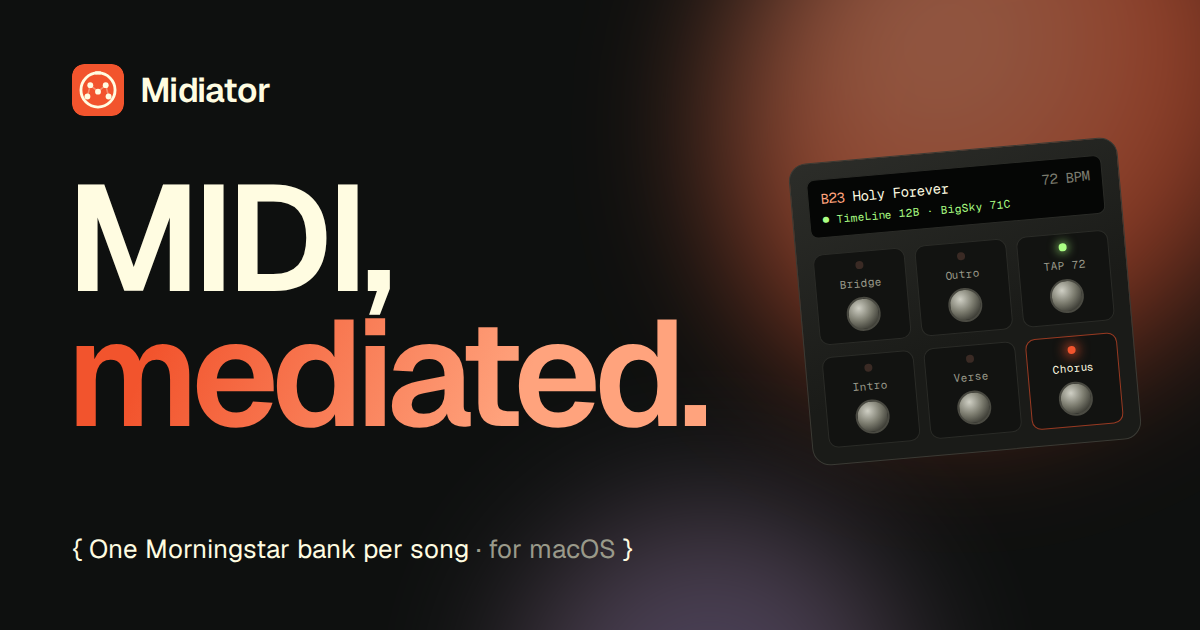
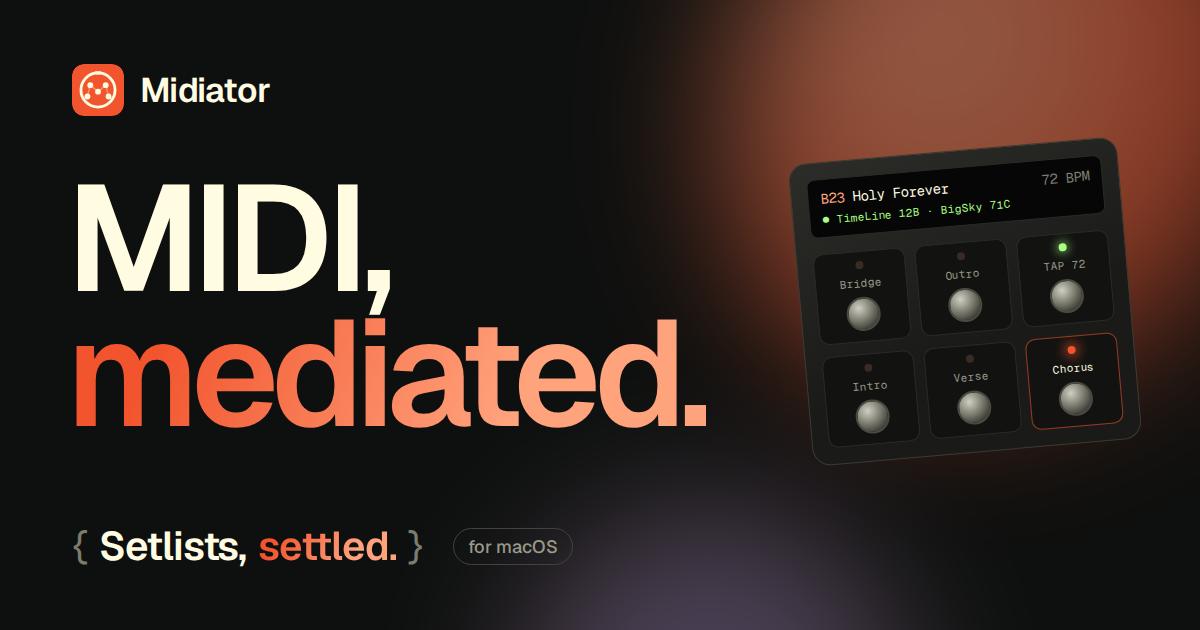
Share card tagline: Setlists, settled.
Bump the og:image URL so apps that cached the old card fetch the new one.

Claude-Session: https://claude.ai/code/session_017FGgstTzUvqVtxYPk8ZTsS

Changed region(s): [[0.0617, 0.8444, 0.5242, 0.9048]]

diff --git a/index.html b/index.html
@@ -11,7 +11,7 @@
   <meta property="og:title" content="Midiator — MIDI, mediated.">
   <meta property="og:description" content="Turn the pedal presets you've already dialed in into one Morningstar bank per song, with tempo and tap, written straight to your controller.">
   <meta property="og:url" content="https://samuelwan04-rgb.github.io/midiator/">
-  <meta property="og:image" content="https://samuelwan04-rgb.github.io/midiator/assets/og-image.png">
+  <meta property="og:image" content="https://samuelwan04-rgb.github.io/midiator/assets/og-image.png?v=2">
   <meta property="og:image:width" content="1200">
   <meta property="og:image:height" content="630">
   <meta property="og:image:alt" content="Midiator: MIDI, mediated. A Morningstar controller showing a song's sections on its footswitches.">
